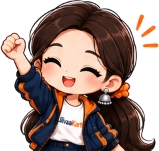
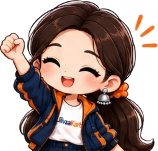
fix(rewards): defringe mascot and restructure mobile hero card

diff --git a/src/app/account/rewards/page.tsx b/src/app/account/rewards/page.tsx
@@ -108,105 +108,158 @@ export default function RewardsAccountPage() {
       />
 
       {/* Hero Presentation Card */}
-      <div className="relative overflow-hidden rounded-3xl bg-gradient-to-br from-navy via-[#112d54] to-navy text-white p-6 sm:p-8 shadow-xl border border-navy/40">
+      <div className="relative overflow-hidden rounded-3xl bg-gradient-to-br from-navy via-[#112d54] to-navy text-white p-5 sm:p-8 shadow-xl border border-navy/40">
         {/* Subtle Decorative Elements */}
         <div className="absolute -right-16 -top-16 w-64 h-64 bg-orange/15 rounded-full blur-3xl pointer-events-none" />
         <div className="absolute -left-16 -bottom-16 w-64 h-64 bg-amber-400/10 rounded-full blur-3xl pointer-events-none" />
 
         <div className="relative z-10 flex flex-col md:flex-row items-center justify-between gap-6">
-          {/* Left Text & Stats Column */}
-          <div className="flex-1 space-y-4 text-center md:text-left">
-            <div className="inline-flex items-center gap-2 px-3 py-1 rounded-full bg-white/10 border border-white/20 text-orange text-xs font-bold tracking-wider uppercase">
-              <Sparkles className="w-3.5 h-3.5 text-orange animate-pulse" />
-              <span>Jiivaa VIP Rewards Club</span>
+          {/* Main Content Column */}
+          <div className="w-full flex-1 space-y-4">
+            {/* Mobile Top Header: Greeting + Mascot Avatar */}
+            <div className="flex items-center justify-between gap-3 md:hidden">
+              <div className="space-y-1.5 min-w-0">
+                <div className="inline-flex items-center gap-1.5 px-2.5 py-0.5 rounded-full bg-white/10 border border-white/20 text-orange text-[10px] font-black tracking-wider uppercase">
+                  <Sparkles className="w-3 h-3 text-orange animate-pulse" />
+                  <span>Jiivaa VIP Club</span>
+                </div>
+                <h1 className="text-xl sm:text-2xl font-extrabold tracking-tight truncate">
+                  Namaste, {user?.name?.split(' ')[0] || 'Fashion Insider'}!
+                </h1>
+                <p className="text-slate-300 text-xs font-medium leading-relaxed">
+                  Har purchase par coins earn karein &amp; tiers unlock karein.
+                </p>
+              </div>
+
+              {/* Mobile Mascot Badge with Warm Halo */}
+              <div className="relative shrink-0 w-20 h-20 sm:w-24 sm:h-24 flex items-end justify-center">
+                <div className="absolute inset-0 bg-radial from-orange/35 via-orange/15 to-transparent rounded-full blur-lg pointer-events-none" />
+                <Image
+                  src={REWARDS_CONFIG.assets.vipRewardsMascot}
+                  alt="Jiivaa Celebration Mascot"
+                  width={96}
+                  height={96}
+                  priority
+                  className="relative z-10 w-auto h-full max-h-[85px] sm:max-h-[96px] object-contain drop-shadow-md select-none"
+                />
+              </div>
             </div>
 
-            <div>
-              <h1 className="text-2xl sm:text-3xl lg:text-4xl font-extrabold tracking-tight">
+            {/* Desktop Header */}
+            <div className="hidden md:block space-y-2">
+              <div className="inline-flex items-center gap-2 px-3 py-1 rounded-full bg-white/10 border border-white/20 text-orange text-xs font-bold tracking-wider uppercase">
+                <Sparkles className="w-3.5 h-3.5 text-orange animate-pulse" />
+                <span>Jiivaa VIP Rewards Club</span>
+              </div>
+              <h1 className="text-3xl lg:text-4xl font-extrabold tracking-tight">
                 Namaste, {user?.name?.split(' ')[0] || 'Fashion Insider'}!
               </h1>
-              <p className="text-slate-300 text-xs sm:text-sm mt-1 max-w-md font-medium">
+              <p className="text-slate-300 text-sm max-w-lg font-medium leading-relaxed">
                 Har purchase par Jiivaa Coins earn karein aur exclusive boutique tiers unlock
                 karein.
               </p>
             </div>
 
-            {/* Live Coin Balance Card */}
-            <div className="inline-flex flex-wrap items-center justify-center md:justify-start gap-4 p-3.5 bg-white/10 backdrop-blur-md rounded-2xl border border-white/15">
-              <div className="flex items-center gap-2.5">
-                <div className="w-10 h-10 rounded-xl bg-orange flex items-center justify-center shadow-md shadow-orange/30">
-                  <Coins className="w-5 h-5 text-white" />
+            {/* Live Coin Balance Card: 2x2 on Mobile, 4-col on Desktop */}
+            <div className="grid grid-cols-2 md:grid-cols-4 gap-2.5 sm:gap-3 p-3 sm:p-4 bg-white/10 backdrop-blur-md rounded-2xl border border-white/15">
+              {/* Tile 1: Available Coins */}
+              <div className="flex items-center gap-2.5 p-2 rounded-xl bg-white/5 border border-white/10">
+                <div className="w-9 h-9 sm:w-10 sm:h-10 rounded-xl bg-orange flex items-center justify-center shrink-0 shadow-md shadow-orange/30">
+                  <Coins className="w-4 h-4 sm:w-5 sm:h-5 text-white" />
                 </div>
-                <div className="text-left">
-                  <div className="text-xs text-slate-300 font-semibold">Available Coins</div>
-                  <div className="text-xl sm:text-2xl font-black text-amber-300 tracking-tight">
+                <div className="min-w-0">
+                  <div className="text-[10px] sm:text-xs text-slate-300 font-semibold truncate">
+                    Available Coins
+                  </div>
+                  <div className="text-base sm:text-xl font-black text-amber-300 tracking-tight leading-tight">
                     {mounted ? coins.toLocaleString('en-IN') : '0'}
-                    <span className="text-xs text-white/80 font-normal ml-1">Coins</span>
+                    <span className="text-[10px] text-white/70 font-normal ml-1">Coins</span>
                   </div>
                 </div>
               </div>
 
-              <div className="hidden sm:block h-8 w-px bg-white/20" />
-
-              <div className="flex items-center gap-2 text-left">
-                <div>
-                  <div className="text-xs text-slate-300 font-semibold">Discount Worth</div>
-                  <div className="text-base sm:text-lg font-bold text-white">
+              {/* Tile 2: Discount Worth */}
+              <div className="flex items-center gap-2.5 p-2 rounded-xl bg-white/5 border border-white/10">
+                <div className="w-9 h-9 sm:w-10 sm:h-10 rounded-xl bg-emerald-500/20 border border-emerald-400/30 flex items-center justify-center shrink-0 text-emerald-300 font-black text-xs sm:text-sm">
+                  ₹
+                </div>
+                <div className="min-w-0">
+                  <div className="text-[10px] sm:text-xs text-slate-300 font-semibold truncate">
+                    Discount Worth
+                  </div>
+                  <div className="text-base sm:text-xl font-black text-emerald-300 tracking-tight leading-tight">
                     ≈ ₹{mounted ? Math.round(coins * settings.coinToInrRatio) : 0}
                   </div>
                 </div>
               </div>
 
-              <div className="hidden sm:block h-8 w-px bg-white/20" />
-
-              <div className="flex items-center gap-2 text-left">
-                <div>
-                  <div className="text-xs text-slate-300 font-semibold">Current Tier</div>
-                  <div className="text-sm sm:text-base font-extrabold text-orange">
-                    {currentTier.badge}
+              {/* Tile 3: Current Tier */}
+              <div className="flex items-center gap-2.5 p-2 rounded-xl bg-white/5 border border-white/10">
+                <div className="w-9 h-9 sm:w-10 sm:h-10 rounded-xl bg-amber-500/20 border border-amber-400/30 flex items-center justify-center shrink-0 text-base">
+                  {currentTier.badge.split(' ')[0]}
+                </div>
+                <div className="min-w-0">
+                  <div className="text-[10px] sm:text-xs text-slate-300 font-semibold truncate">
+                    Current Tier
+                  </div>
+                  <div className="text-xs sm:text-sm font-extrabold text-orange truncate">
+                    {currentTier.name}
                   </div>
                 </div>
               </div>
 
-              <div className="hidden sm:block h-8 w-px bg-white/20" />
-
-              <div className="flex items-center gap-2 text-left">
-                <div>
-                  <div className="text-xs text-slate-300 font-semibold">3-Yr Shopping Spend</div>
-                  <div className="text-sm sm:text-base font-extrabold text-amber-300 font-mono">
+              {/* Tile 4: 3-Yr Shopping Spend */}
+              <div className="flex items-center gap-2.5 p-2 rounded-xl bg-white/5 border border-white/10">
+                <div className="w-9 h-9 sm:w-10 sm:h-10 rounded-xl bg-blue-500/20 border border-blue-400/30 flex items-center justify-center shrink-0 text-blue-300">
+                  <TrendingUp className="w-4 h-4 sm:w-5 sm:h-5" />
+                </div>
+                <div className="min-w-0">
+                  <div className="text-[10px] sm:text-xs text-slate-300 font-semibold truncate">
+                    3-Yr Spend
+                  </div>
+                  <div className="text-sm sm:text-base font-black text-white font-mono leading-tight">
                     ₹{mounted ? cumulativeSpendInCycle.toLocaleString('en-IN') : 0}
                   </div>
                 </div>
               </div>
             </div>
 
-            <div className="flex flex-wrap items-center justify-center md:justify-start gap-3 pt-1">
+            {/* Quick Actions Bar */}
+            <div className="grid grid-cols-2 sm:flex sm:flex-wrap items-center gap-2.5 sm:gap-3 pt-1">
               <Button
                 asChild
-                className="rounded-full bg-orange hover:bg-orange-600 text-white font-extrabold text-xs px-6 shadow-md shadow-orange/25"
+                className="w-full sm:w-auto rounded-xl sm:rounded-full bg-orange hover:bg-orange-600 text-white font-extrabold text-xs py-2.5 sm:px-6 shadow-md shadow-orange/25"
               >
-                <Link href="/shop">Shop &amp; Earn Coins &rarr;</Link>
+                <Link href="/shop" className="flex items-center justify-center gap-1.5">
+                  <span>Shop &amp; Earn</span>
+                  <span>&rarr;</span>
+                </Link>
               </Button>
+
               <Button
                 asChild
                 variant="outline"
-                className="rounded-full border-white/30 text-white hover:bg-white/10 text-xs font-bold"
+                className="w-full sm:w-auto rounded-xl sm:rounded-full bg-white/10 hover:bg-white/15 border-white/25 text-white text-xs font-bold py-2.5 sm:px-5"
               >
-                <Link href="/referral">
-                  Refer a Friend (Get ₹{settings.referralRefereeDiscountInr})
+                <Link href="/referral" className="flex items-center justify-center gap-1.5">
+                  <Gift className="w-3.5 h-3.5 text-amber-300" />
+                  <span>Refer (Get ₹{settings.referralRefereeDiscountInr})</span>
                 </Link>
               </Button>
+
               {cycleExpiryStr && (
-                <span className="text-[11px] text-slate-300 font-medium px-3 py-1.5 rounded-full bg-white/10 border border-white/15">
-                  🔄 3-Yr Cycle Active (Till {cycleExpiryStr})
-                </span>
+                <div className="col-span-2 sm:col-span-1 text-center sm:text-left">
+                  <span className="inline-flex items-center gap-1 text-[11px] text-slate-300 font-medium px-3 py-1.5 rounded-full bg-white/10 border border-white/15">
+                    🔄 3-Yr Cycle Active (Till {cycleExpiryStr})
+                  </span>
+                </div>
               )}
             </div>
           </div>
 
-          {/* Right Mascot Column */}
-          <div className="shrink-0 flex items-center justify-center">
-            <div className="relative w-44 h-44 sm:w-52 sm:h-52 flex items-center justify-center">
+          {/* Desktop Mascot Column */}
+          <div className="hidden md:flex shrink-0 items-center justify-center">
+            <div className="relative w-44 h-44 lg:w-52 lg:h-52 flex items-center justify-center">
               {/* Backlight Ambient Glow */}
               <div className="absolute inset-0 bg-radial from-orange/30 via-orange/10 to-transparent rounded-full blur-2xl pointer-events-none scale-90" />
               <Image
@@ -215,7 +268,7 @@ export default function RewardsAccountPage() {
                 width={200}
                 height={210}
                 priority
-                className="relative z-10 w-auto h-full max-h-[175px] sm:max-h-[200px] object-contain drop-shadow-xl select-none transition-transform duration-300 hover:scale-105"
+                className="relative z-10 w-auto h-full max-h-[175px] lg:max-h-[200px] object-contain drop-shadow-xl select-none transition-transform duration-300 hover:scale-105"
               />
             </div>
           </div>

diff --git a/src/shared/config/rewards.config.ts b/src/shared/config/rewards.config.ts
@@ -229,7 +229,7 @@ export const REWARDS_CONFIG = {
 
   // WhatsApp Pre-filled Copy
   getWhatsAppShareText: (referralCode: string, shareUrl: string, discountInr?: number) => {
-    const finalDiscount = typeof discountInr === 'number' ? discountInr : 150;
+    const finalDiscount = typeof discountInr === 'number' ? discountInr : 50;
     return encodeURIComponent(
       `👗✨ Namaste! Maine JiivaaKart par verified local boutiques ka amazing Indian fashion discover kiya!\n\n` +
         `🎁 Mere referral link se sign up karo aur pehle order par FLAT ₹${finalDiscount} OFF pao:\n` +

diff --git a/src/app/admin/rewards/page.tsx b/src/app/admin/rewards/page.tsx
@@ -760,7 +760,7 @@ export default function AdminRewardsControlCenterPage() {
                   />
                 </div>
                 <p className="text-[10px] text-slate-400">
-                  Minimum order total required for ₹150 coupon to apply.
+                  Minimum order total required for referral coupon to apply.
                 </p>
               </div>
 
